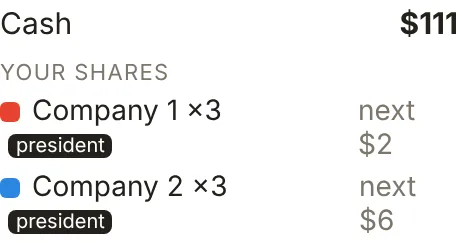
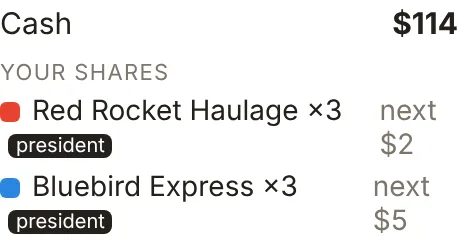
Client: company names and tickers; holdings as company-coloured chips
- Companies have names, one per colour so a colour always means the same
  company: Red Rocket Haulage (RRH), Bluebird Express (BBX), Greenway
  Freight (GWF), Purple Pony Transport (PPT), Orange Owl Logistics
  (OOL), Tealwater Trucking (TWT).
- Other players' holdings are chips in the company's colour with its
  ticker and share count ("GWF ×2"), crowned for a president, instead
  of "3×2 P" (which read either way round).
- Walkthrough pictures regenerated with the names (and the default
  river).

Claude-Session: https://claude.ai/code/session_01C8anJjHiDxs9NrQijdSTCH

diff --git a/client/src/main.ts b/client/src/main.ts
@@ -23,7 +23,23 @@ const names = (good: number) => {
   const t = session.cfg.town;
   return { raw: t.raws[good], product: t.goods[good], source: t.sources[good], shop: t.shops[good] };
 };
-const coName = (c: number) => `Company ${c + 1}`;
+/**
+ * Company names, one per colour (so a colour always means the same company), each with a
+ * three-letter ticker for tight spots like a player's holdings.
+ */
+const COMPANY_NAMES: [string, string][] = [
+  ['Red Rocket Haulage', 'RRH'],
+  ['Bluebird Express', 'BBX'],
+  ['Greenway Freight', 'GWF'],
+  ['Purple Pony Transport', 'PPT'],
+  ['Orange Owl Logistics', 'OOL'],
+  ['Tealwater Trucking', 'TWT'],
+];
+const coName = (c: number) => COMPANY_NAMES[c % COMPANY_NAMES.length][0];
+const coTicker = (c: number) => COMPANY_NAMES[c % COMPANY_NAMES.length][1];
+/** A holding as a chip in the company's colour: ticker, shares, and a crown for its president. */
+const holdingChip = (c: number, n: number, pres: boolean) =>
+  `<span class="chip co-chip${pres ? ' pres' : ''}" style="background:${companyColor(c)}" title="${coName(c)}: ${n} share${n === 1 ? '' : 's'}${pres ? ', president' : ''}">${pres ? '♔ ' : ''}${coTicker(c)} ×${n}</span>`;
 const playerName = (p: number, me: number) => (p === me ? 'you' : `player ${p + 1}`);
 const fmtClock = (sec: number) => {
   const s = Math.max(0, Math.ceil(sec));
@@ -409,10 +425,10 @@ function refreshPanels(obs: Observation) {
       const shares = held
         .map((c) => {
           const n = c.shares.filter((s) => s === p.id).length;
-          return `<span class="holding">${sw(c.id)}${c.id + 1}×${n}${c.presidents.includes(p.id) ? '<span class="tag">P</span>' : ''}</span>`;
+          return holdingChip(c.id, n, c.presidents.includes(p.id));
         })
-        .join(' ');
-      return `<div class="co"><div class="row"><span><b>Player ${p.id + 1}</b></span><span>${money(p.cash)}</span></div><div class="small">${shares || '<span class="muted">No shares</span>'}</div></div>`;
+        .join('');
+      return `<div class="co"><div class="row"><span><b>Player ${p.id + 1}</b></span><span>${money(p.cash)}</span></div><div class="chips">${shares || '<span class="muted small">No shares</span>'}</div></div>`;
     })
     .join('');
 

diff --git a/client/src/style.css b/client/src/style.css
@@ -192,3 +192,5 @@ html, body { margin: 0; height: 100%; background: var(--bg); }
 .set-def { color: var(--muted); font-size: 12px; text-align: right; }
 .set-buttons { display: flex; gap: 8px; margin-top: 18px; }
 .card .set-buttons button.plain { background: #f0ebe0; color: var(--ink); }
+.chip.co-chip { color: #fff; text-shadow: 0 1px 1px rgba(0,0,0,0.25); }
+.chip.co-chip.pres { border-color: #23201b; }
